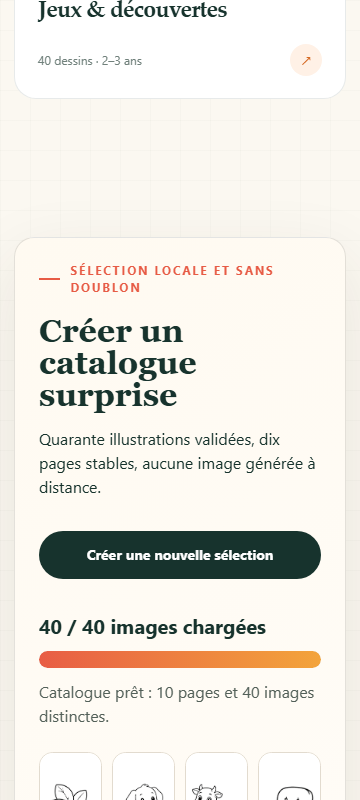
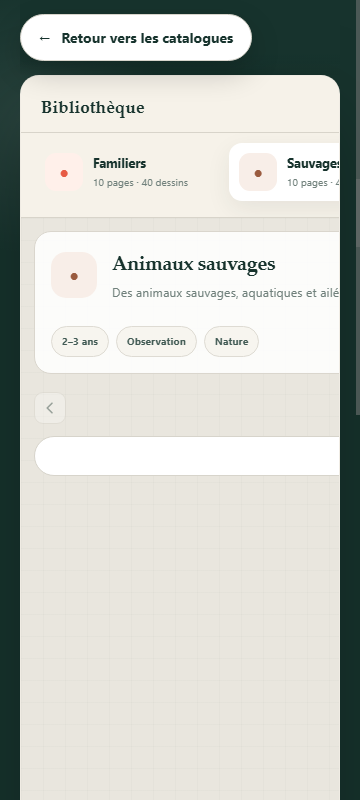
fix: open catalogues without page jump

diff --git a/app.js b/app.js
@@ -11,6 +11,7 @@ const state = {
   surpriseCatalogue: null,
   surpriseGeneration: 0,
   toastTimer: null,
+  catalogueReturnTarget: null,
 };
 
 if (typeof window !== "undefined") {
@@ -189,13 +190,12 @@ function installSurpriseGenerator() {
   document
     .getElementById("create-surprise")
     ?.addEventListener("click", generateSurpriseCatalogue);
-  document.getElementById("open-surprise")?.addEventListener("click", () => {
+  document.getElementById("open-surprise")?.addEventListener("click", (event) => {
     if (!state.surpriseCatalogue) return;
-    state.selectedCatalogueId = state.surpriseCatalogue.id;
-    state.selectedPage = 1;
-    renderCatalogueMenu();
-    renderWorkspace();
-    document.getElementById("atelier")?.scrollIntoView({ behavior: "smooth" });
+    selectCatalogue(state.surpriseCatalogue.id, {
+      open: true,
+      trigger: event.currentTarget,
+    });
   });
   document.getElementById("print-surprise")?.addEventListener("click", async () => {
     if (!state.surpriseCatalogue) return;
@@ -222,6 +222,9 @@ function bindGlobalEvents() {
     const catalogue = selectedCatalogue();
     if (catalogue) await printEntries(catalogue, "catalogue");
   });
+  document
+    .getElementById("close-catalogue")
+    ?.addEventListener("click", closeCatalogueViewer);
   window.addEventListener("afterprint", clearPrintArea);
   document.addEventListener(
     "error",
@@ -236,6 +239,14 @@ function bindGlobalEvents() {
     true,
   );
   document.addEventListener("keydown", (event) => {
+    if (
+      event.key === "Escape" &&
+      document.getElementById("atelier")?.classList.contains("is-catalogue-open")
+    ) {
+      event.preventDefault();
+      closeCatalogueViewer();
+      return;
+    }
     const tag = document.activeElement?.tagName;
     if (tag === "INPUT" || tag === "TEXTAREA") return;
     if (event.key === "ArrowLeft") selectPage(state.selectedPage - 1);
@@ -293,7 +304,10 @@ function renderLibrary() {
 
   list.querySelectorAll("[data-catalogue-id]").forEach((button) => {
     bindPressActivation(button, () => {
-      selectCatalogue(button.dataset.catalogueId, { scroll: true });
+      selectCatalogue(button.dataset.catalogueId, {
+        open: true,
+        trigger: button,
+      });
     });
   });
 }
@@ -371,24 +385,39 @@ function selectCatalogue(id, options = {}) {
   state.selectedPage = 1;
   renderCatalogueMenu();
   renderWorkspace();
-  if (options.scroll) {
-    const isMobile = window.matchMedia("(max-width: 900px)").matches;
-    const target = isMobile
-      ? document.querySelector(".viewer")
-      : document.getElementById("atelier");
-    const reduceMotion = window.matchMedia(
-      "(prefers-reduced-motion: reduce)",
-    ).matches;
+  if (options.open) openCatalogueViewer(options.trigger);
+}
 
-    window.requestAnimationFrame(() => {
-      target?.scrollIntoView({
-        behavior: isMobile || reduceMotion ? "auto" : "smooth",
-        block: "start",
-      });
-      if (isMobile && target instanceof HTMLElement) {
-        target.focus({ preventScroll: true });
-      }
-    });
+function openCatalogueViewer(trigger) {
+  const atelier = document.getElementById("atelier");
+  const closeButton = document.getElementById("close-catalogue");
+  if (!atelier) return;
+
+  state.catalogueReturnTarget =
+    trigger instanceof HTMLElement ? trigger : document.activeElement;
+  atelier.classList.add("is-catalogue-open");
+  atelier.setAttribute("role", "dialog");
+  atelier.setAttribute("aria-modal", "true");
+  document.body.classList.add("catalogue-viewer-open");
+
+  window.requestAnimationFrame(() => {
+    closeButton?.focus({ preventScroll: true });
+  });
+}
+
+function closeCatalogueViewer() {
+  const atelier = document.getElementById("atelier");
+  if (!atelier?.classList.contains("is-catalogue-open")) return;
+
+  atelier.classList.remove("is-catalogue-open");
+  atelier.removeAttribute("role");
+  atelier.removeAttribute("aria-modal");
+  document.body.classList.remove("catalogue-viewer-open");
+
+  const returnTarget = state.catalogueReturnTarget;
+  state.catalogueReturnTarget = null;
+  if (returnTarget instanceof HTMLElement && returnTarget.isConnected) {
+    returnTarget.focus({ preventScroll: true });
   }
 }
 

diff --git a/styles.css b/styles.css
@@ -1086,6 +1086,49 @@ svg {
   color: var(--white);
 }
 
+.catalogue-viewer__back {
+  display: none;
+}
+
+body.catalogue-viewer-open {
+  overflow: hidden;
+}
+
+.atelier-section.is-catalogue-open {
+  position: fixed;
+  inset: 0;
+  z-index: 100;
+  overflow-y: auto;
+  overscroll-behavior: contain;
+  padding: 0 0 40px;
+}
+
+.atelier-section.is-catalogue-open .section-shell {
+  width: min(calc(100% - 40px), 1280px);
+}
+
+.atelier-section.is-catalogue-open .catalogue-viewer__back {
+  position: sticky;
+  top: 0;
+  z-index: 20;
+  display: flex;
+  padding: 14px 0;
+  background: linear-gradient(var(--ink) 72%, transparent);
+}
+
+.atelier-section.is-catalogue-open .catalogue-viewer__back .button {
+  min-height: 44px;
+  box-shadow: 0 12px 30px rgba(0, 0, 0, 0.2);
+}
+
+.atelier-section.is-catalogue-open .section-heading--light {
+  display: none;
+}
+
+.atelier-section.is-catalogue-open .workspace {
+  min-height: calc(100vh - 78px);
+}
+
 .section-heading--light .eyebrow {
   color: #f2bd3c;
 }

diff --git a/index.html b/index.html
@@ -10,7 +10,7 @@
     />
     <title>Ma famille en couleur — Catalogues de coloriage</title>
     <link rel="icon" href="favicon.svg" type="image/svg+xml" />
-    <link rel="stylesheet" href="styles.css?v=20260718-2" />
+    <link rel="stylesheet" href="styles.css?v=20260718-3" />
   </head>
   <body>
     <a class="skip-link" href="#catalogues">Aller aux catalogues</a>
@@ -144,6 +144,13 @@
 
       <section id="atelier" class="atelier-section" aria-labelledby="atelier-title">
         <div class="section-shell">
+          <div class="catalogue-viewer__back">
+            <button id="close-catalogue" class="button button--paper" type="button">
+              <span aria-hidden="true">←</span>
+              Retour vers les catalogues
+            </button>
+          </div>
+
           <div class="section-heading section-heading--light">
             <div>
               <p class="eyebrow"><span></span> L’atelier d’impression</p>
@@ -247,6 +254,6 @@
     <div id="status-toast" class="status-toast" role="status" aria-live="polite"></div>
     <div id="print-area" class="print-area" aria-hidden="true"></div>
 
-    <script src="app.js?v=20260718-2"></script>
+    <script src="app.js?v=20260718-3"></script>
   </body>
 </html>